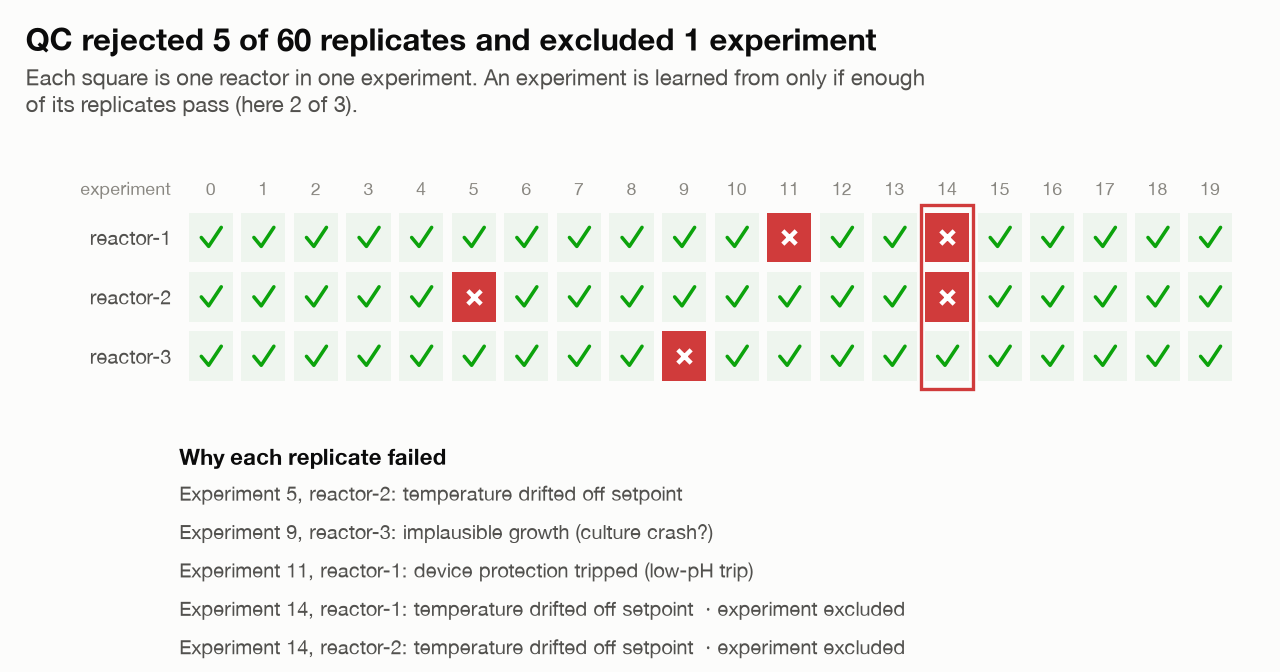
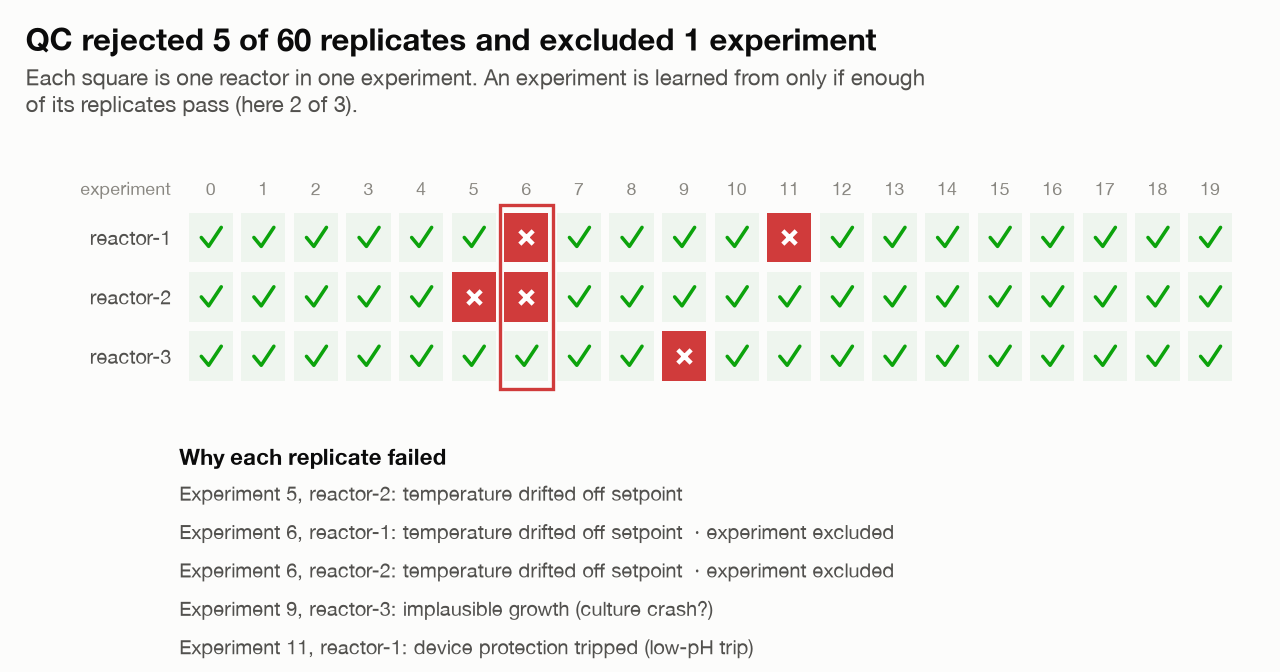
Make campaigns reproducible run to run
The device seeded each culture from AutoLab's experiment ID, but AutoLab
mints fresh random IDs per campaign, so identical campaigns grew slightly
different cultures and the optimiser's later picks diverged. Seed from the
device seed, reactor and that reactor's persisted hold number instead; a
test runs a campaign twice and compares the chart PNG bytes.

Two demo fragilities surfaced with the new seeds:
- the double heater fault sat in optimiser-chosen experiment 14, which
  landed at 20.5 C where a dead heater is harmless; it moves to start-up
  experiment 6, whose conditions depend on the seed alone.
- the pipeline saw a protection trip only if a 10-minute sample landed
  before AutoLab safed the reactor; the device now logs a sample the moment
  a trip fires (device state version 3).

README charts regenerated from the reproducible run.

diff --git a/tests/test_autolab_controller.py b/tests/test_autolab_controller.py
@@ -209,10 +209,11 @@ def test_injected_heater_fault_is_reported_as_attested_fault():
     assert float(sample.measured["temperature"].value) < 25.0
 
 
-def test_same_experiment_same_culture():
-    experiment = uuid4()
+def test_same_culture_whatever_the_experiment_id():
+    """AutoLab mints new experiment IDs every campaign; the culture must not change."""
 
     def final_od():
+        experiment = uuid4()  # a fresh ID each time, as a new campaign would send
         clock, ctrl = make(seed=3)
 
         async def go():
@@ -226,6 +227,16 @@ def test_same_experiment_same_culture():
         return run(go())
 
     assert final_od() == final_od()
+
+
+def test_each_hold_on_a_reactor_is_a_new_culture():
+    experiment = uuid4()
+    clock, ctrl = make(seed=3)
+    finals = []
+    for hold in range(2):
+        run(ctrl.apply_setpoints(command(experiment_id=experiment)))
+        finals.append(od_after(ctrl, clock, "reactor-1", experiment, 24 * (hold + 1)))
+    assert finals[0] != finals[1]  # same conditions, different (repeatable) noise
 
 
 def test_unknown_settings_rejected():
@@ -305,8 +316,9 @@ def test_pareto_front_keeps_only_undominated_experiments():
     assert pareto_front([best, cheap, dominated, pricey]) == [best, cheap]
 
 
-def test_full_autolab_culture_campaign(tmp_path):
-    """End to end through AutoLab's own CLI: create, run 6 cultures, report."""
+def run_small_campaign(directory):
+    """Create and run a 5-experiment campaign through AutoLab's own CLI."""
+    directory.mkdir(parents=True, exist_ok=True)
     autolab = Path(sys.executable).parent / "autolab"
     config = yaml.safe_load((ROOT / "configs/culture-algae-sim.yaml").read_text())
     config["campaign"]["max_experiments"] = 5
@@ -317,24 +329,30 @@ def test_full_autolab_culture_campaign(tmp_path):
         culture_crashes={},
         co2_valve_faults={},
     )
-    (tmp_path / "campaign.yaml").write_text(yaml.safe_dump(config))
+    (directory / "campaign.yaml").write_text(yaml.safe_dump(config))
     common = [
-        "--database", str(tmp_path / "db.sqlite3"),
+        "--database", str(directory / "db.sqlite3"),
         "--policy", str(ROOT / "configs/culture-policy.yaml"),
     ]
 
     def cli(*args):
         return subprocess.run(
-            [str(autolab), *args], check=True, capture_output=True, text=True, cwd=tmp_path
+            [str(autolab), *args], check=True, capture_output=True, text=True, cwd=directory
         ).stdout
 
-    cli("init", "--database", str(tmp_path / "db.sqlite3"))
+    cli("init", "--database", str(directory / "db.sqlite3"))
     campaign = cli("culture", "create", "campaign.yaml", *common, "--id-only").strip()
     status = cli("culture", "run", campaign, *common)
+    report = json.loads(cli("culture", "report", campaign, *common))
+    return directory / "db.sqlite3", status, report
+
+
+def test_full_autolab_culture_campaign(tmp_path):
+    """End to end through AutoLab's own CLI: create, run 15 cultures, report, chart."""
+    db, status, report = run_small_campaign(tmp_path)
     assert "state: completed" in status
     assert "qc_failed: 1" in status  # only experiment 3, where 2 of 3 replicates failed
     assert "observed: 4" in status
-    report = json.loads(cli("culture", "report", campaign, *common))
     assert report["evidence_origins"]["controller_adapter"] == "algae-sim-reactor"
     origins = report["evidence_origins"]
     assert origins["od_readings"] == origins["od_readings_from_simulated_or_mock_sensors"] > 0
@@ -342,7 +360,7 @@ def test_full_autolab_culture_campaign(tmp_path):
     pytest.importorskip("matplotlib")
     from algae_sim.autolab.plot_campaign import load, pareto_front, plot
 
-    experiments = load(tmp_path / "db.sqlite3")
+    experiments = load(db)
     assert [e.index for e in experiments] == [0, 1, 2, 3, 4]
     assert [e.observed for e in experiments] == [True, True, True, False, True]
     assert "temperature drifted" in experiments[1].failures["reactor-1"]
@@ -353,3 +371,23 @@ def test_full_autolab_culture_campaign(tmp_path):
     assert sorted(p.name for p in written) == sorted(
         f"{name}{suffix}.png" for name in names for suffix in ("", "-dark")
     )
+
+
+def test_identical_campaigns_reproduce_the_same_evidence_and_charts(tmp_path):
+    """Same config, same seed: same cultures, same optimiser choices, same PNG bytes.
+
+    AutoLab gives each campaign fresh random IDs, so this guards the device's
+    seeding against depending on them.
+    """
+    pytest.importorskip("matplotlib")
+    from algae_sim.autolab.plot_campaign import load, plot
+
+    charts = []
+    for name in ("first", "second"):
+        db, _, _ = run_small_campaign(tmp_path / name)
+        experiments = load(db)
+        written = plot(experiments, tmp_path / name / "charts", startup=3)
+        charts.append((experiments, {p.name: p.read_bytes() for p in written}))
+    (first, first_png), (second, second_png) = charts
+    assert first == second
+    assert first_png == second_png

diff --git a/algae_sim/device/core.py b/algae_sim/device/core.py
@@ -49,7 +49,7 @@ OD_MAX = 4.0
 CAPTURE_INTERVAL_S = 600.0  # one environment sample per reactor per 10 device-minutes
 CAPTURE_SCHEMA_VERSION = "3"
 # Bumped when the pickled DeviceCore layout changes; older state files are refused.
-STATE_VERSION = 2
+STATE_VERSION = 3
 
 
 @dataclass(frozen=True, slots=True)
@@ -178,6 +178,7 @@ class Batch:
     applied: dict[str, float]  # the setpoints the device accepted, by variable name
     acknowledgement: dict[str, Any] = field(default_factory=dict)
     next_capture_s: float = 0.0  # hold-elapsed time of the next environment sample
+    was_tripped: bool = False  # protection state at the last step, to catch new trips
 
 
 class DeviceCore:
@@ -217,8 +218,16 @@ class DeviceCore:
             dt = reactor.config.dt_s
             while reactor.elapsed_s + dt <= target_s + 1e-9:
                 reactor.step()
-                if self.capture_source and reactor.elapsed_s + 1e-9 >= batch.next_capture_s:
-                    self._capture_environment(reactor_id, batch)
+                tripped = _tripped(reactor)
+                if self.capture_source:
+                    if reactor.elapsed_s + 1e-9 >= batch.next_capture_s:
+                        self._capture_environment(reactor_id, batch)
+                    elif tripped and not batch.was_tripped:
+                        # Log a trip the moment it happens, like a real alarm log. A
+                        # client may safe the reactor within minutes, and samples
+                        # taken in safe state don't describe the hold.
+                        self._capture_environment(reactor_id, batch, scheduled=False)
+                batch.was_tripped = tripped
         return self.now
 
     # -- description ---------------------------------------------------------------
@@ -277,7 +286,7 @@ class DeviceCore:
             batch_hours=MAX_HOLD_H,
             ambient_c=s.ambient_c,
             start_temperature_c=s.ambient_c,
-            seed=self._seed(experiment_id, reactor_id),
+            seed=self._seed(reactor_id, hold),
             heater_fails_after_h=(
                 s.heater_fault_after_h if s.faulted("heater_faults", reactor_id, hold) else None
             ),
@@ -336,10 +345,14 @@ class DeviceCore:
                 )
         return None
 
-    def _seed(self, experiment_id: str, reactor_id: str) -> int:
-        # Tied to experiment and reactor, not call order: reproducible, and each
-        # replicate is a different (but repeatable) culture.
-        key = f"{self.settings.seed}:{experiment_id}:{reactor_id}"
+    def _seed(self, reactor_id: str, hold: int) -> int:
+        # "Reactor-2, culture 5", the way a lab labels runs. Deliberately not the
+        # client's experiment ID: AutoLab mints fresh IDs for every campaign, so
+        # seeding on them made two identical campaigns grow different cultures.
+        # Each replicate is still its own culture (the reactor ID differs), and
+        # the hold counter is persisted, so a restarted device carries on the
+        # same sequence.
+        key = f"{self.settings.seed}:{reactor_id}:{hold}"
         return int.from_bytes(hashlib.sha256(key.encode()).digest()[:4], "big")
 
     def safe_state(self, reactor_id: str, reason: str) -> dict[str, Any]:
@@ -399,7 +412,9 @@ class DeviceCore:
 
     # -- capture ------------------------------------------------------------------
 
-    def _capture_environment(self, reactor_id: str, batch: Batch) -> None:
+    def _capture_environment(
+        self, reactor_id: str, batch: Batch, *, scheduled: bool = True
+    ) -> None:
         r = batch.reactor
         measured = _measured(r)
         applied = _applied(batch)
@@ -429,7 +444,8 @@ class DeviceCore:
                 "ph": round(r.true_ph, 4),
             },
         )
-        batch.next_capture_s = r.elapsed_s + CAPTURE_INTERVAL_S
+        if scheduled:  # an event sample leaves the 10-minute schedule alone
+            batch.next_capture_s = r.elapsed_s + CAPTURE_INTERVAL_S
 
     def _capture(
         self,

diff --git a/tests/test_pipeline.py b/tests/test_pipeline.py
@@ -4,6 +4,7 @@ import json
 import sqlite3
 import threading
 from datetime import UTC, datetime, timedelta
+from itertools import pairwise
 
 import pytest
 
@@ -299,3 +300,31 @@ def test_analysis_flags_ph_faults_and_meters_co2(tmp_path):
     healthy = summaries["bank/reactor-3"]
     assert healthy.flags == [] and healthy.mean_abs_ph_deviation < 0.05
     assert closed_summaries["bank/reactor-2"].co2_g < healthy.co2_g
+
+
+def test_a_trip_is_captured_even_when_the_client_safes_the_reactor_at_once(tmp_path):
+    """AutoLab safes a tripped reactor within minutes, before the next 10-minute sample.
+
+    Samples taken in safe state don't describe the hold, so the device must log
+    the trip as it happens, or the pipeline never sees it.
+    """
+    core = capturing_core(co2_valve_faults={"reactor-1": (0,)}, co2_valve_fault_after_h=2.0)
+    start_hold(core, ph=6.8)
+    minute = START
+    while not core.telemetry("reactor-1")["protection_tripped"]:
+        minute += timedelta(minutes=1)
+        core.advance_to(minute)
+    core.safe_state("reactor-1", "protection trip")  # what AutoLab's runner does
+    core.advance_to(minute + timedelta(hours=1))
+
+    messages = core.drain_outbox()
+    env = [m for m in messages if m["kind"] == "environment"]
+    event = [m for m in env if m["control"]["tripped"] and not m["control"]["safe_state"]]
+    assert len(event) == 1  # the trip itself, logged before the reactor was safed
+    scheduled = [m["context"]["hold_elapsed_h"] for m in env if m not in event]
+    interval_h = CAPTURE_INTERVAL_S / 3600
+    assert all(abs(b - a - interval_h) < 1e-3 for a, b in pairwise(scheduled))
+    service = IngestService(tmp_path)
+    service.ingest("".join(json.dumps(m) + "\n" for m in messages).encode())
+    (summary,) = hold_summaries(service.db.connection)
+    assert "protection_trip" in summary.flags

diff --git a/docs/progress.md b/docs/progress.md
@@ -4,9 +4,16 @@
 
 ## Current handoff — 2026-11-11
 
-algae-sim speaks AutoLab's **culture contract v2** and is pinned to AutoLab `e9f8421`. The device declares named controlled variables (temperature, light intensity, pH), protection limits and metered resources (energy, CO2). pH is a setpoint the device holds by dosing CO2, with an illustrative carbon model, a pH probe, a pH controller with low/high trips, and stuck-valve faults. The demo campaign optimises all three variables against OD750, energy and CO2. The pipeline capture format is now schema v3 with pH and CO2. 106 tests pass; `demo.sh`, `resume_demo.sh` and `pipeline_demo.sh` all run, and the pipeline's flags still match AutoLab's QC replicate for replicate, including the new CO2-valve fault.
+algae-sim speaks AutoLab's **culture contract v2** and is pinned to AutoLab `e9f8421`. The device declares named controlled variables (temperature, light intensity, pH), protection limits and metered resources (energy, CO2). pH is a setpoint the device holds by dosing CO2, with an illustrative carbon model, a pH probe, a pH controller with low/high trips, and stuck-valve faults. The demo campaign optimises all three variables against OD750, energy and CO2. The pipeline capture format is now schema v3 with pH and CO2. 110 tests pass, including one that runs the same campaign twice and expects byte-identical charts; `demo.sh`, `resume_demo.sh` and `pipeline_demo.sh` all run, and the pipeline's flags still match AutoLab's QC replicate for replicate, including the new CO2-valve fault.
 
 Next: the Azure version of the pipeline, with Steven closely involved (account, region, Data Explorer vs SQL, cost guard and teardown). See [data-pipeline.md](data-pipeline.md). A dashboard and write-up follow once the architecture settles.
+
+## 2026-11-11 — Reproducible campaigns
+
+- **Finding:** rerunning the demo gave slightly different charts. The device seeded each culture from AutoLab's experiment ID, and AutoLab mints fresh random IDs for every campaign, so measured OD drifted by about ±0.02 and the optimiser's later choices diverged. Chart drawing itself was already deterministic.
+- **Decision:** seed each culture from the device seed, the reactor and that reactor's culture (hold) number, which the device already persists. That is how a lab labels runs, and it depends on nothing the client sends. A test runs a campaign twice and compares the PNG bytes.
+- **Finding:** the double heater fault sat in experiment 14, chosen by the optimiser. Once results changed, it picked 20.5 °C there, where a dead heater is harmless next to the 20 °C room, and QC rightly passed it. The fault moved to start-up experiment 6 (31.6 °C), whose conditions come from the seed alone.
+- **Finding:** with the new seeds the pipeline stopped flagging the hold 11 trip. Trips were only visible in the 10-minute samples, AutoLab safes a tripped reactor within minutes, and safe-state samples are excluded, so detection had depended on a sample landing in that gap. **Decision:** the device logs an extra environment sample the moment a trip fires, like a real alarm log, without moving the regular schedule. Device state version 3, because a batch now remembers its last trip state.
 
 ## 2026-11-11 — Culture contract v2: pH held by CO2
 

diff --git a/README.md b/README.md
@@ -18,7 +18,7 @@ One demo campaign: 20 experiments × 3 replicate reactors = 60 simulated 36-hour
 
 <picture>
   <source media="(prefers-color-scheme: dark)" srcset="docs/images/progress-dark.png">
-  <img alt="Final OD750 per experiment: random start-up trials, then the optimiser's choices, with the best result so far rising to OD 0.82" src="docs/images/progress.png">
+  <img alt="Final OD750 per experiment: random start-up trials, then the optimiser's choices, with the best result so far rising to OD 0.80" src="docs/images/progress.png">
 </picture>
 
 <picture>
@@ -87,16 +87,16 @@ uv run python -m algae_sim run --heater-fails-after 6 --plot runs/heater-fail.pn
 | **Honest failure semantics on a network.** "Never reached the device" is reported differently from "sent, no reply". Lost replies are resolved by resending the same command ID, which the device recognises and doesn't apply twice. Persistent silence is reported to AutoLab as ambiguous | `autolab/remote.py`, `device/core.py` |
 | **Fault injection to prove QC.** Per-replicate heater failures, culture crashes and stuck CO2 valves. AutoLab's per-replicate QC and its 2-of-3 replicate rule catch them | `configs/culture-algae-sim.yaml` |
 | **A data pipeline that can't lose or double-count.** The device logs what it measured, and a separate uploader buffers through outages and retries. The ingest keeps raw batches, validates every line, quarantines bad ones with a reason, and dedupes resends by device and sequence | `pipeline/`, `scripts/pipeline_demo.sh` |
-| **Reproducibility.** Seeded instruments; each culture's seed comes from its experiment and reactor IDs | `reactor.py`, `autolab/controller.py` |
+| **Reproducibility.** Seeded instruments; each culture's seed is the device seed, the reactor and that reactor's culture number, so rerunning a campaign gives byte-identical evidence and charts | `reactor.py`, `device/core.py` |
 
 The injected faults in the demo config:
 
 | Experiment | Fault | AutoLab's verdict |
 |---|---|---|
 | 5 | reactor-2's heater fails at hour 4 | That replicate fails `temperature_control`; 2 of 3 pass, so the experiment counts |
+| 6 | reactor-1's and reactor-2's heaters fail | Only 1 of 3 passes, so the experiment fails QC and isn't learned from |
 | 9 | reactor-3's culture crashes at hour 12 | Contamination screen `growth_plausible` flags the OD drops; 2 of 3 pass |
 | 11 | reactor-1's CO2 valve sticks open at hour 4 | The device trips on low pH and shuts off the CO2; AutoLab stops that replicate (`no_protection_trip`, `control:ph`); 2 of 3 pass |
-| 14 | reactor-1's and reactor-2's heaters fail | Only 1 of 3 passes, so the experiment fails QC and isn't learned from |
 
 ## Layout
 

diff --git a/docs/architecture.md b/docs/architecture.md
@@ -80,7 +80,7 @@ Every reading and telemetry sample is stamped with device time.
 device service ─▶ capture log ─▶ uploader ─HTTP─▶ ingest ─▶ raw batches + SQLite ─▶ report
 ```
 
-With `--capture DIR` the device records what it measured: environment samples every 10 device-minutes and every OD reading. It writes them as numbered messages to an append-only log. The uploader is a separate process that ships the log to the ingest endpoint, which validates, deduplicates and stores it. The analysis step summarises each culture hold from the stored data alone. Its flags agree with AutoLab's QC in the demo, which checks the data path end to end.
+With `--capture DIR` the device records what it measured: environment samples every 10 device-minutes, an extra sample the moment a protection trip fires, and every OD reading. It writes them as numbered messages to an append-only log. The uploader is a separate process that ships the log to the ingest endpoint, which validates, deduplicates and stores it. The analysis step summarises each culture hold from the stored data alone. Its flags agree with AutoLab's QC in the demo, which checks the data path end to end.
 
 Boundaries:
 - Capture never affects control or what AutoLab sees: the OD readings are identical with capture on or off (tested).
